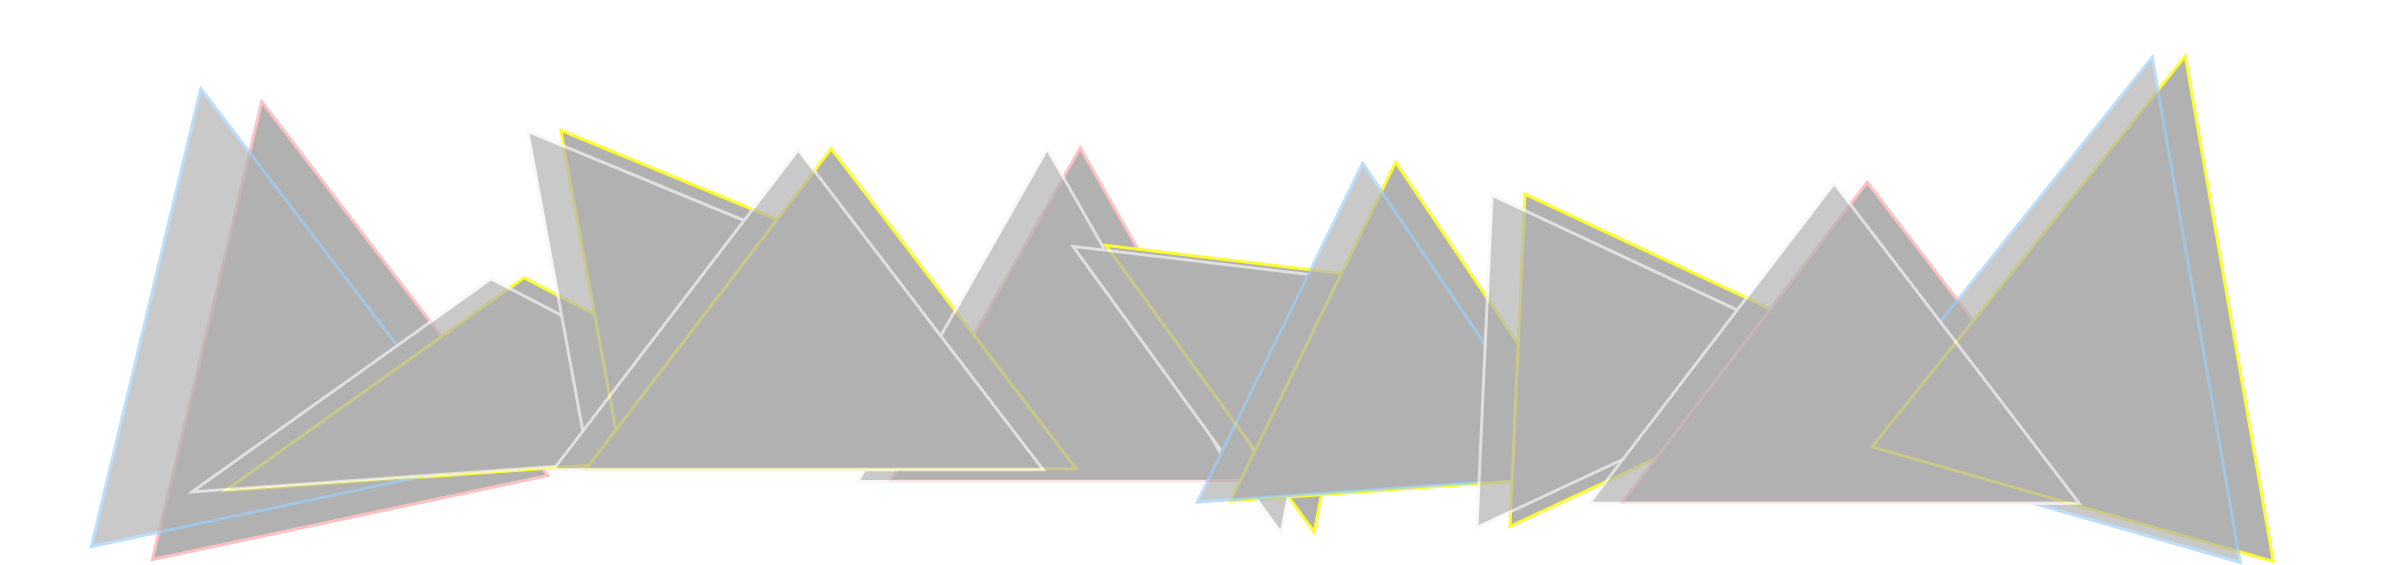
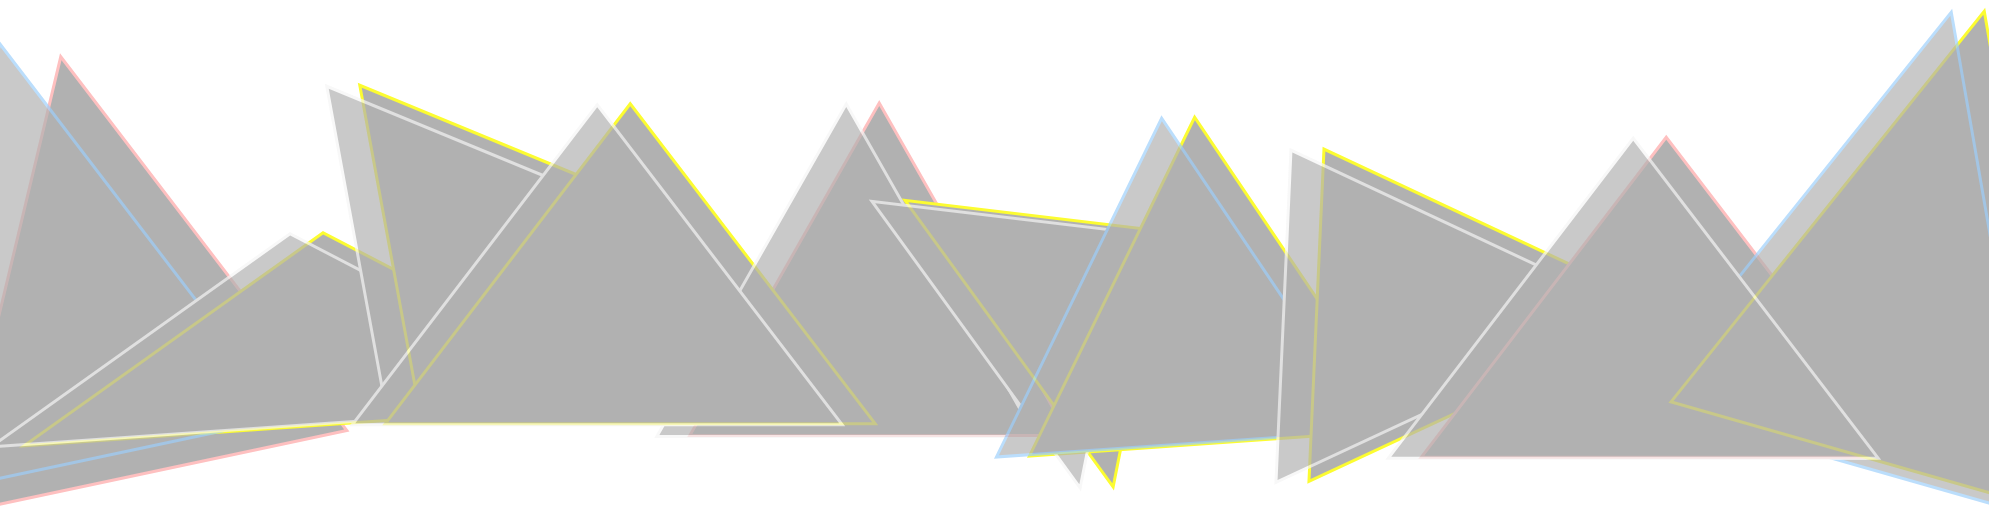
Fixed images to the best of my ability

diff --git a/public/index.html b/public/index.html
@@ -25,19 +25,19 @@
                         <div class='col-md-2'><h2><span class='enterprise'>Enterpriser</span></h2></div>
                     </div>
                 </div>
-                <div class="col-md-12 col-lg-12 pt-5">
-                    <div class="col-md-12 col-lg-12 " style="margin-top: -2rem;">
-                        <img src="../images/Component 5 – 1.png" class="img-fluid center-main" alt="The Trinagles">
-                    </div>
+                <div class="col-md-12 col-lg-12 pt-1 center-main">
+                    <!-- <div class="col-md-12 col-lg-12 " style="margin-top: -2rem;">
+                        <img src="../images/Component 5 – 1.png" class="img-fluid center-main" alt="The Trinagles"> -->
+                    <!-- </div> -->
                 </div>
             </div>
-            <div class='row body-style pt-5 '>
+            <div class='row body-style '>
                 <div class='col-md-4'><hr></div>
                 <div class='col-md-4 ' style='text-align: center; color: #606060;'>
                     <h2>What we do!</h2>
                 </div>
                 <div class='col-md-4'><hr></div>
-                <div class='row body-text p-5 '>
+                <div class='row body-text p-3 '>
                     <div class='col-md-4'>
                         <h4>Start-up Marketing</h4>
                         <p>Specializing in companies that have been operating between 0 and 3 years,
@@ -66,24 +66,24 @@
                             <p>Our team can help you bring your business into the 21st century with our innovative and engaging website and app development.</p>
                         </div>
                     </div>
-                <div class="col-md-12 col-lg-12 ">
-                    <div class="col-md-12 col-lg-12" style="margin-top: -3rem;">
+                <div class="col-md-12 col-lg-12 center-middel ">
+                    <!-- <div class="col-md-12 col-lg-12" style="margin-top: -3rem;">
                         <img src="../images/Group 81.png" class="img-fluid center" alt="The Trinagles">
-                    </div>
+                    </div> -->
                 </div>
             </div>
-            <div class='row sec-2 body-text pt-5'>
-                    <div class='col-md-12 col-lg-12 body-text pt-5 pl-5'></div>
+            <div class='row sec-2'>
+                    <div class='col-md-12 col-lg-12 body-text'></div>
                         <div class='col-md-4 col-lg-4'></div>
-                        <div class='col-md-4 col-lg-4'>
+                        <div class='col-md-4 col-lg-4 body-text'>
                             <h3>Ready to bring your online dream to life? Get in contact with our team today!</h3>
                         </div>
                         <div class='col-md-5 '></div>
                     
-                    <div class="col-md-12 col-lg-12">
-                        <div class="col-md-12 col-lg-12" style="margin-top: -2rem;">
+                    <div class="col-md-12 col-lg-12 center">
+                        <!-- <div class="col-md-12 col-lg-12" style="margin-top: -2rem;">
                             <img src="../images/Component 7 – 1.png" class="img-fluid center-main" alt="The Trinagles">
-                        </div>
+                        </div> -->
                     </div>
                 </div>
                 <div class='row sec-3 '>

diff --git a/css/index.css b/css/index.css
@@ -9,6 +9,8 @@
 .body-style{
     height: 35rem;
     background-color: #FEC0C0;
+    padding-top: 5rem;
+    padding-bottom: 5rem;
 }
 span.storyteller {
     border-bottom: 1px solid #75F575;
@@ -42,11 +44,14 @@ span.enterprise {
     color: #606060;
     opacity: 1;
     text-align: center;
-    font: Medium 25px/32px jdIcoFont;
+    padding-left: 2rem;
+    padding-bottom: 2rem;
 }
 .sec-2{
     height: 20rem;
     background-color: #C7D9ED;
+    padding-top: 5rem;
+    
 
 }
 .sec-3{
@@ -55,17 +60,24 @@ span.enterprise {
 
 }
 .center-main {
-    display: block;
-    margin-left: auto;
-    margin-right: auto;
+    background-image: url(../images/Component\ 5\ –\ 1.png);
     width: 100%;
     height: 100%;
+    background-size:cover;
+    margin-top: -1rem;
+  }
+  .center-middel {
+    background-image: url(../images/Group\ 81.png);
+    width: 100%;
+    height: 55%;
+    background-size:cover;
+    margin-top: -4rem;
   }
 
   .center {
-    display: block;
-    margin-left: auto;
-    margin-right: auto;
+    background-image: url(../images/Component\ 7\ –\ 1.png);
     width: 100%;
-    height: 70%;
+    height: 100%;
+    background-size:cover;
+    margin-top: -3rem;
   }
